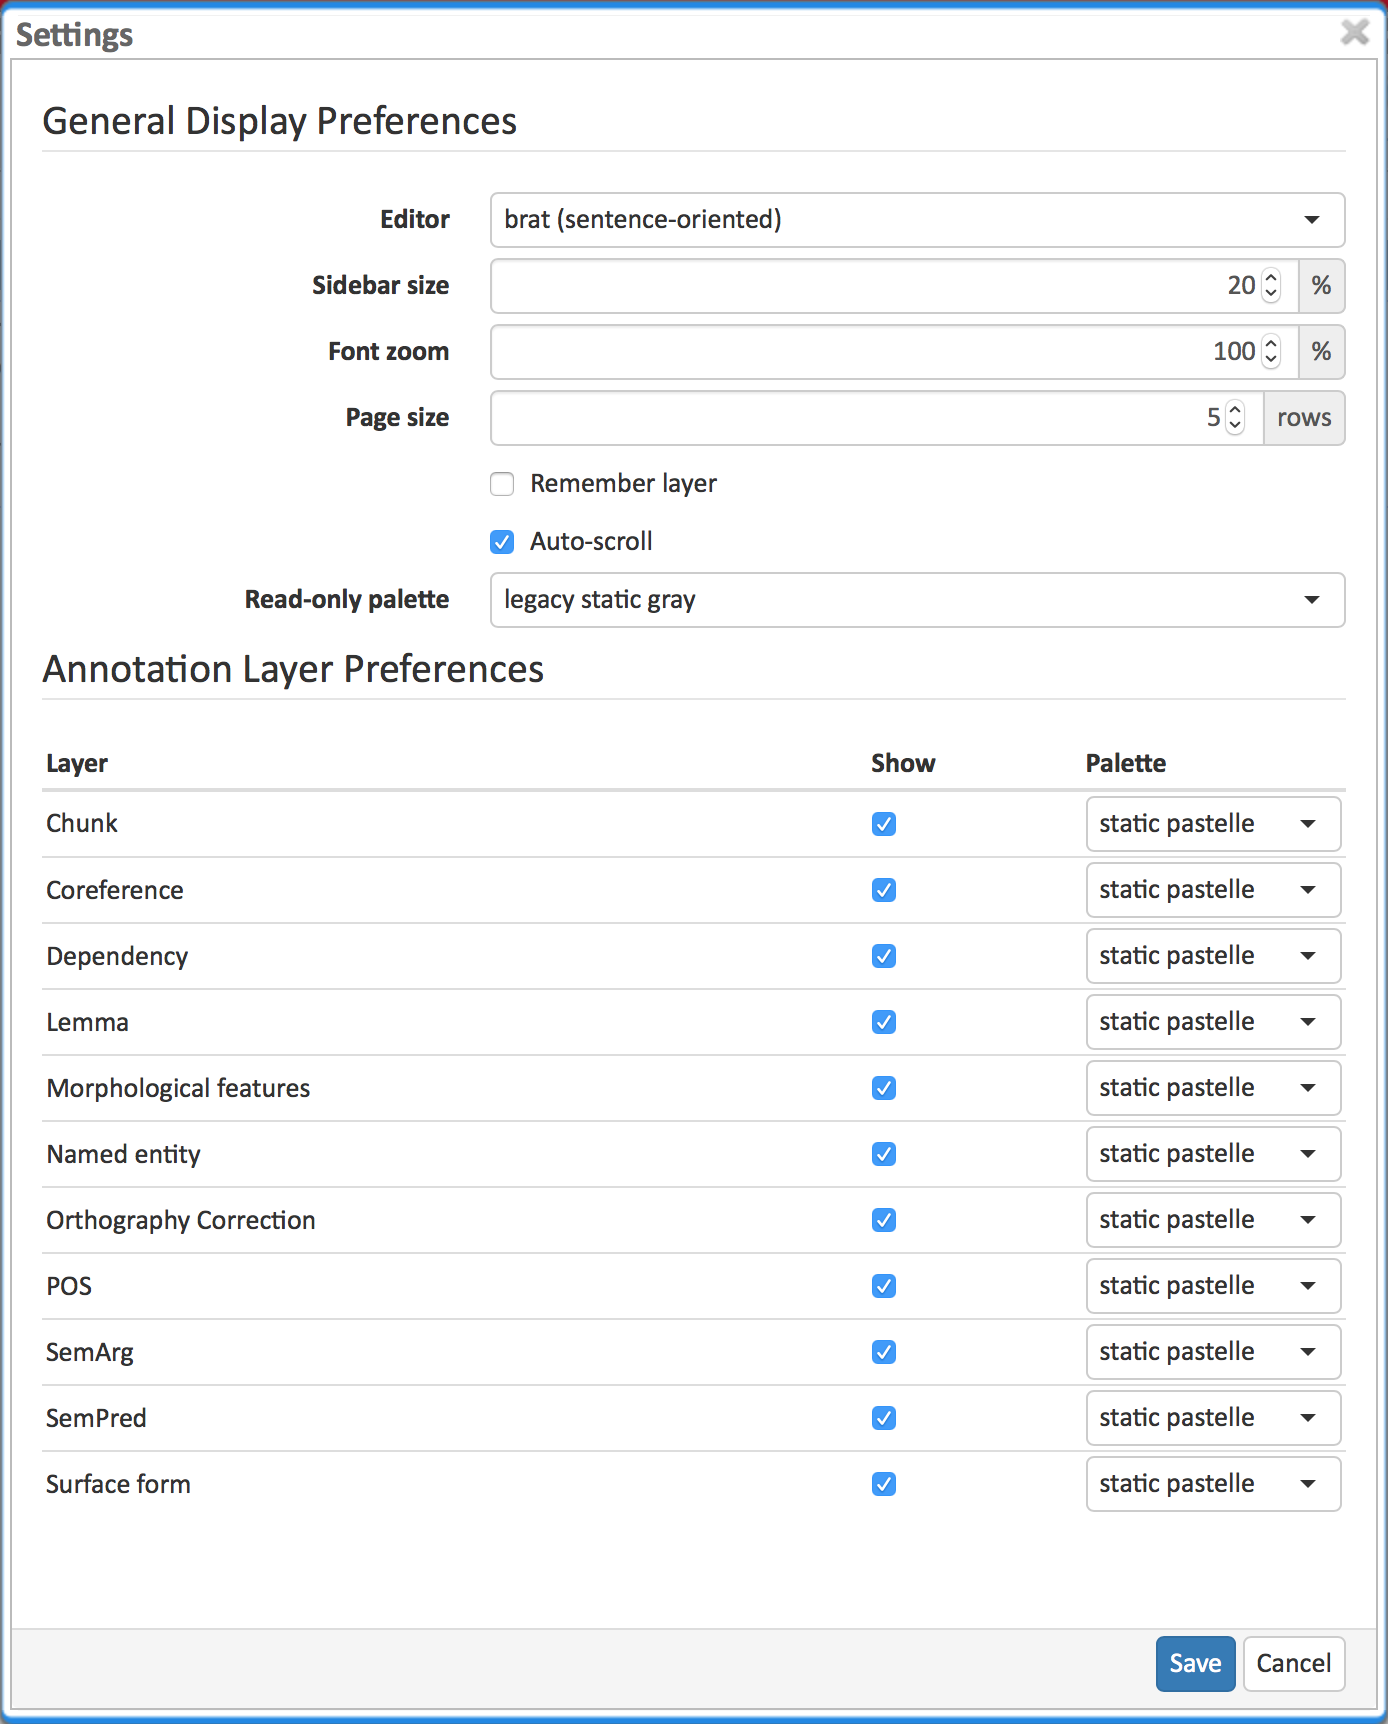
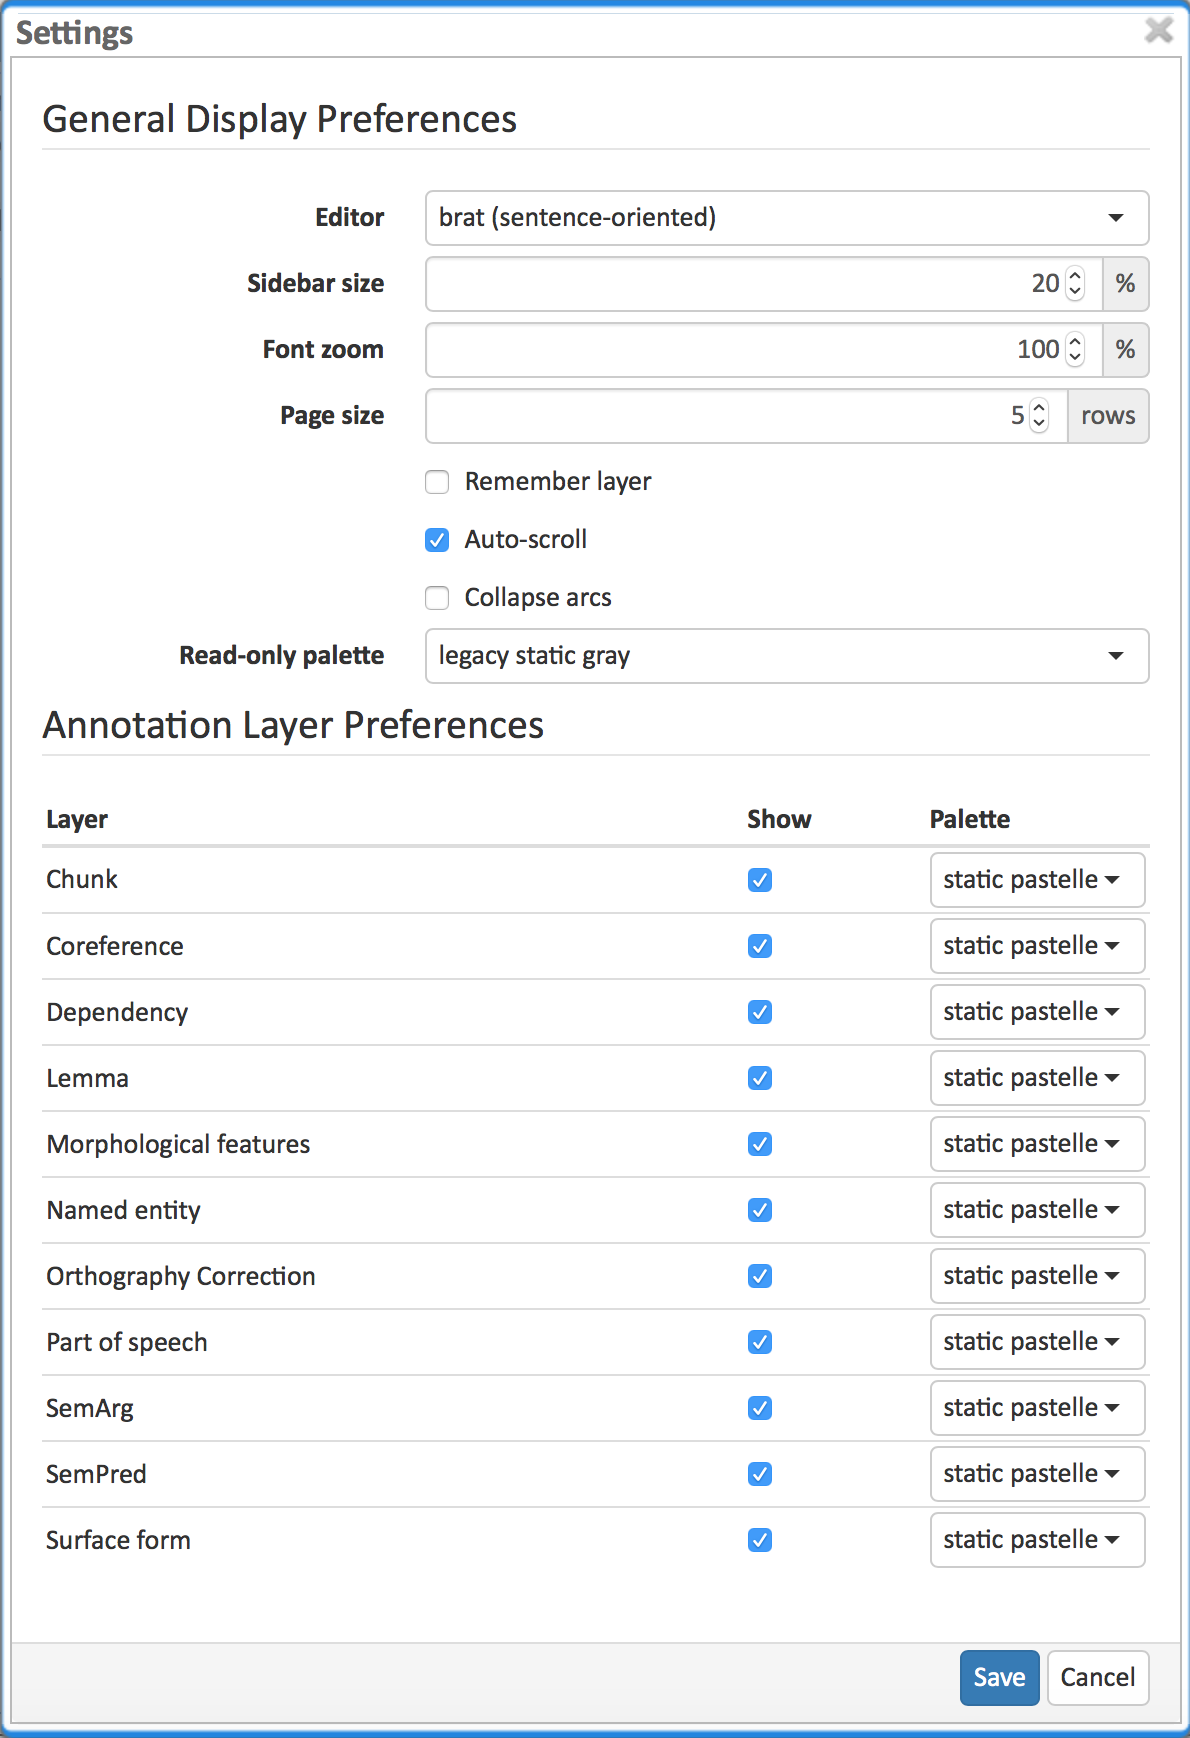
#1494 - Merge/collapse relationship arcs
- Allow enabling the arc-collapsing feature of the brat visualization
- Update documentation

diff --git a/webanno-brat/src/main/java/de/tudarmstadt/ukp/clarin/webanno/brat/message/VisualOptions.java b/webanno-brat/src/main/java/de/tudarmstadt/ukp/clarin/webanno/brat/message/VisualOptions.java
@@ -25,7 +25,7 @@ public class VisualOptions
     public static final String ARC_BUNDLE_ALL = "all";
     
     @JsonProperty("arc_bundle")
-    private String arcBundle = ARC_BUNDLE_ALL;
+    private String arcBundle = ARC_BUNDLE_NONE;
 
     public String getArcBundle()
     {
